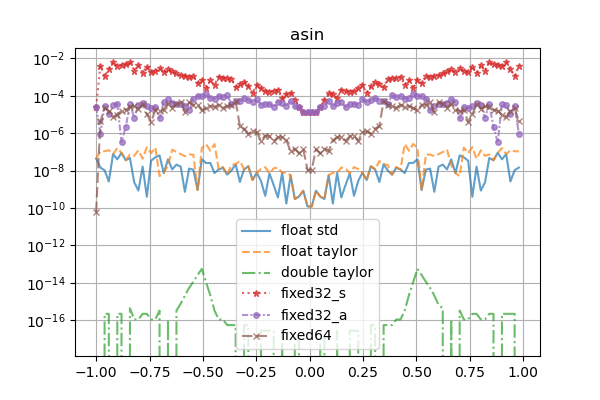
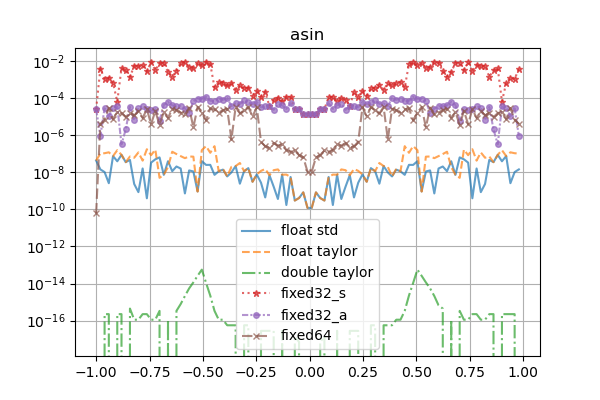
Unified accuracy with master

diff --git a/src/lib/fixedpoint.h b/src/lib/fixedpoint.h
@@ -217,6 +217,21 @@ namespace fixedpoint_helpers {
         using type = fixedpoint<typename base_fixed::BUF_TYPE, larger_operational_type, base_fixed::fraction_bits>;
     };
 
+    template<typename T, T value, T ap, T bp>
+    struct value_splitter_a_floor {
+        constexpr const static T a_value = value * ap / (ap + bp);
+        constexpr const static T b_value = value - a_value;
+    };
+
+    template<typename T, T value, T ap, T bp>
+    struct value_splitter_b_floor {
+        constexpr const static T b_value = value * bp / (ap + bp);
+        constexpr const static T a_value = value - b_value;
+    };
+
+    template<typename T, T value, T ap, T bp>
+    struct value_splitter : std::conditional<(ap > bp), value_splitter_a_floor<T, value, ap, bp>, value_splitter_b_floor<T, value, ap, bp>>::type {};
+
 
     template<typename A, typename B, typename C = typename result_type<A, B>::type, typename std::enable_if<is_fixedpoint<C>::value, void*>::type = nullptr>
     struct fixed_operations {
@@ -256,8 +271,8 @@ namespace fixedpoint_helpers {
         constexpr const static int mul_max_result_decrease = (sizeof(typename C::CALCULATE_TYPE) - sizeof(typename C::BUF_TYPE)) * 8;
         constexpr const static int mul_c_decrease = min(mul_max_result_decrease, mul_accuracy_decrease);
         constexpr const static int mul_ab_decrease = mul_accuracy_decrease - mul_c_decrease;
-        constexpr const static int mul_a_decrease = mul_ab_decrease * a_acc / (a_acc + b_acc);
-        constexpr const static int mul_b_decrease = mul_ab_decrease - mul_a_decrease;
+        constexpr const static int mul_a_decrease = value_splitter<int, mul_ab_decrease, a_acc, b_acc>::a_value;
+        constexpr const static int mul_b_decrease = value_splitter<int, mul_ab_decrease, a_acc, b_acc>::b_value;
 
         constexpr static C multiple(const A a, const B b) noexcept {
             return C::buf_cast(static_signed_shl<typename C::CALCULATE_TYPE, -mul_c_decrease>(make_buf<A, typename C::CALCULATE_TYPE, a_acc - mul_a_decrease>(a) * make_buf<B, typename C::CALCULATE_TYPE, b_acc - mul_b_decrease>(b)));
@@ -269,8 +284,8 @@ namespace fixedpoint_helpers {
         constexpr const static int div_max_a_increase = (sizeof(typename C::CALCULATE_TYPE) - sizeof(typename as_fixed<A>::BUF_TYPE)) * 8;
         constexpr const static int div_a_increase = min(max(div_max_a_increase, c_acc - a_acc), div_accuracy_increase);
         constexpr const static int div_bc_change = div_accuracy_increase - div_a_increase;
-        constexpr const static int div_b_decrease = div_bc_change * b_acc / (b_acc + c_acc);
-        constexpr const static int div_c_increase = div_bc_change - div_b_decrease;
+        constexpr const static int div_b_decrease = value_splitter<int, div_bc_change, b_acc, c_acc>::a_value;
+        constexpr const static int div_c_increase = value_splitter<int, div_bc_change, b_acc, c_acc>::b_value;
 
         constexpr static C divide(const A a, const B b) noexcept {
             typename C::BUF_TYPE divisor = make_buf<B, typename C::BUF_TYPE, b_acc - div_b_decrease>(b);            
@@ -345,6 +360,7 @@ class fixedpoint {
             return  fixedpoint((counter << frac_bits) / denimonator, true);
         }
 
+        
         FIXED_POINT_INTEGER_TEMPLATE
         constexpr friend fixedpoint operator<<(const fixedpoint first, const I second) noexcept {
             return fixedpoint(first.buf << second, true);

diff --git a/Readme.md b/Readme.md
@@ -105,25 +105,25 @@ all of them might be faster or slower - it depends on the target platform. **Res
 STARTING TESTS
 
 <table><thead><tr><th>type</th><th>library</th><th>addition</th><th>subtraction</th><th>multiplication</th><th>division</th><th>sin</th><th>sqrt</th><th>asin</th><th>log</th><th>exp</th></tr></thead><tbody>
-<tr><th>fixed32_s</th><th>taylormath</th><td>6984</td><td>6917</td><td>6923</td><td>48437</td><td>532716</td><td>88565</td><td>230457</td><td>383146</td><td>973161</td>
+<tr><th>fixed32_s</th><th>taylormath</th><td>6975</td><td>6916</td><td>6917</td><td>49696</td><td>528582</td><td>89933</td><td>208127</td><td>370730</td><td>962932</td>
 
 </tr>
-<tr><th>fixed32_a</th><th>taylormath</th><td>6955</td><td>6924</td><td>15730</td><td>215094</td><td>662153</td><td>273412</td><td>267079</td><td>1462236</td><td>1082104</td>
+<tr><th>fixed32_a</th><th>taylormath</th><td>6968</td><td>6923</td><td>15724</td><td>215101</td><td>662154</td><td>273404</td><td>267080</td><td>1462234</td><td>1082110</td>
 
 </tr>
-<tr><th>fixed64</th><th>taylormath</th><td>13254</td><td>13212</td><td>20763</td><td>239018</td><td>887860</td><td>384202</td><td>432504</td><td>2078547</td><td>1532526</td>
+<tr><th>fixed64</th><th>taylormath</th><td>13250</td><td>13212</td><td>20763</td><td>235218</td><td>877614</td><td>378969</td><td>477089</td><td>1996979</td><td>1524578</td>
 
 </tr>
-<tr><th>float</th><th>cmath</th><td>101477</td><td>105846</td><td>164148</td><td>254709</td><td>2025269</td><td>344895</td><td>535361</td><td>1527875</td><td>2016057</td>
+<tr><th>float</th><th>cmath</th><td>101477</td><td>105845</td><td>164148</td><td>254710</td><td>2025270</td><td>344894</td><td>535365</td><td>1527872</td><td>2016057</td>
 
 </tr>
-<tr><th>double</th><th>cmath</th><td>118831</td><td>121308</td><td>289303</td><td>495245</td><td>3027947</td><td>615179</td><td>843389</td><td>2339798</td><td>2997102</td>
+<tr><th>double</th><th>cmath</th><td>118832</td><td>121308</td><td>289309</td><td>495247</td><td>3027947</td><td>615173</td><td>843390</td><td>2339798</td><td>2997104</td>
 
 </tr>
-<tr><th>float</th><th>taylormath</th><td>101503</td><td>105846</td><td>163518</td><td>255344</td><td>2686056</td><td>1839415</td><td>1433422</td><td>8430365</td><td>4188836</td>
+<tr><th>float</th><th>taylormath</th><td>101480</td><td>105845</td><td>163525</td><td>255335</td><td>2686058</td><td>1839414</td><td>1433429</td><td>8430354</td><td>4188836</td>
 
 </tr>
-<tr><th>double</th><th>taylormath</th><td>118838</td><td>121308</td><td>288678</td><td>494615</td><td>5821663</td><td>8244400</td><td>7006001</td><td>34130695</td><td>10262166</td>
+<tr><th>double</th><th>taylormath</th><td>118838</td><td>121314</td><td>288671</td><td>494621</td><td>5821653</td><td>8244396</td><td>7006007</td><td>34130706</td><td>10262167</td>
 
 </tr>
 </tbody></table>
